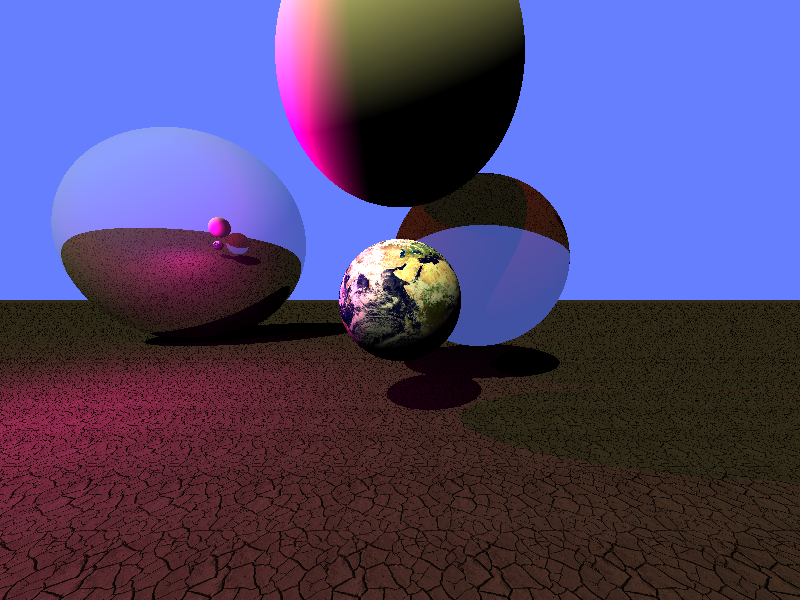
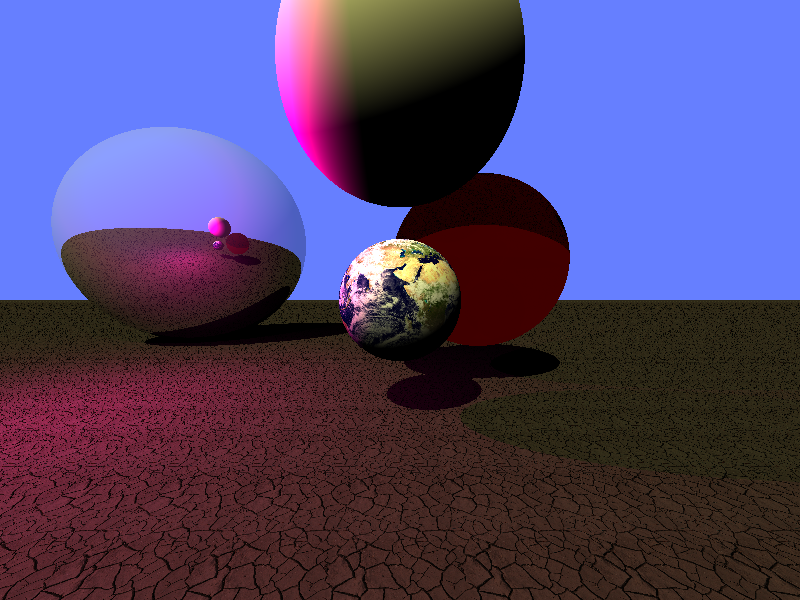
Add reflections on refractive surfaces

Changed region(s): [[0.5, 0.27, 0.7188, 0.6], [0.2812, 0.39, 0.3125, 0.42]]

diff --git a/src/main.rs b/src/main.rs
@@ -359,35 +359,47 @@ pub fn get_color(scene: &Scene, ray: &Ray, intersection: &Intersection, depth: u
     let hit_point = ray.origin + (ray.direction * intersection.distance);
     let body = intersection.body;
     let surface_normal = body.surface_normal(&hit_point);
+    let material = body.material();
 
-    let mut final_color = shade_diffuse(scene, body, &hit_point, &surface_normal);
-
-    match body.material().surface {
-        Surface::Diffuse => {}
+    match material.surface {
+        Surface::Diffuse => shade_diffuse(scene, body, &hit_point, &surface_normal),
         Surface::Reflecting { reflectivity } => {
+            let diffuse_color = shade_diffuse(scene, body, &hit_point, &surface_normal);
             let reflection_ray = Ray::create_reflection(surface_normal, ray.direction, hit_point);
-            final_color = final_color * (1.0 - reflectivity);
-            final_color = final_color +
-                          (cast_ray(scene, &reflection_ray, depth + 1) * reflectivity);
+            (diffuse_color * (1.0 - reflectivity)) +
+            (cast_ray(scene, &reflection_ray, depth + 1) * reflectivity)
         }
         Surface::Refractive {
             index,
             transparency,
         } => {
-            if let Some(refraction_ray) =
-                Ray::create_transmission(surface_normal,
-                                         ray.direction,
-                                         hit_point,
-                                         SHADOW_BIAS,
-                                         index) {
-                final_color = final_color * (1.0 - transparency);
-                final_color = final_color +
-                              (cast_ray(scene, &refraction_ray, depth + 1) * transparency);
+            let refraction_color;
+
+            let kr = fresnel(ray.direction, surface_normal, index) as f32;
+            let surface_color = material
+                .coloration
+                .color(&body.texture_coords(&hit_point));
+
+            if kr < 1.0 {
+                let transmission_ray = Ray::create_transmission(surface_normal,
+                                                                ray.direction,
+                                                                hit_point,
+                                                                SHADOW_BIAS,
+                                                                index)
+                        .unwrap();
+                refraction_color = cast_ray(scene, &transmission_ray, depth + 1);
+            } else {
+                refraction_color = scene.default_color;
             }
+
+            let reflection_ray = Ray::create_reflection(surface_normal, ray.direction, hit_point);
+            let reflection_color = cast_ray(scene, &reflection_ray, depth + 1);
+
+            let mut color = reflection_color * kr + refraction_color * (1.0 - kr);
+            color = color * transparency * surface_color;
+            color
         }
     }
-
-    final_color
 }
 
 fn cast_ray(scene: &Scene, ray: &Ray, depth: u32) -> Color {
@@ -439,6 +451,34 @@ fn shade_diffuse(scene: &Scene, body: &Body, hit_point: &Point, surface_normal: 
     }
 
     final_color.clamp()
+}
+
+fn fresnel(incident: Vector3, normal: Vector3, index: f32) -> f64 {
+    let i_dot_n = incident.dot(&normal);
+    let eta_i;
+    let eta_t;
+
+    if i_dot_n > 0.0 {
+        eta_i = index as f64;
+        eta_t = 1.0;
+    } else {
+        eta_i = 1.0;
+        eta_t = index as f64;
+    }
+
+    let sin_t = eta_i / eta_t * (1.0 - i_dot_n * i_dot_n).max(0.0).sqrt();
+
+    if sin_t > 1.0 {
+        // Total internal reflection
+        return 1.0;
+    } else {
+        let cos_t = (1.0 - sin_t * sin_t).max(0.0).sqrt();
+        let cos_i = cos_t.abs();
+        let r_s = ((eta_t * cos_i) - (eta_i * cos_t)) / ((eta_t * cos_i) + (eta_i * cos_t));
+        let r_p = ((eta_i * cos_i) - (eta_t * cos_t)) / ((eta_i * cos_i) + (eta_t * cos_t));
+
+        return (r_s * r_s + r_p * r_p) / 2.0;
+    }
 }
 
 pub fn render(scene: &Scene) -> ImageBuffer<Rgba<u8>, Vec<u8>> {
